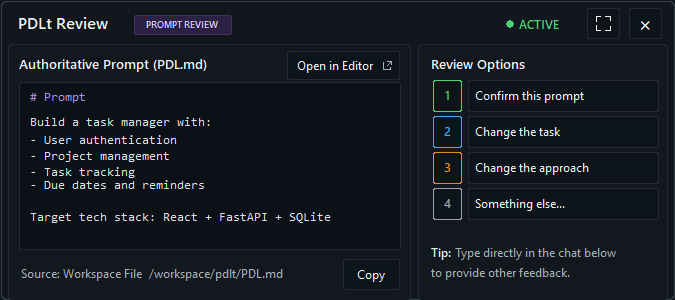
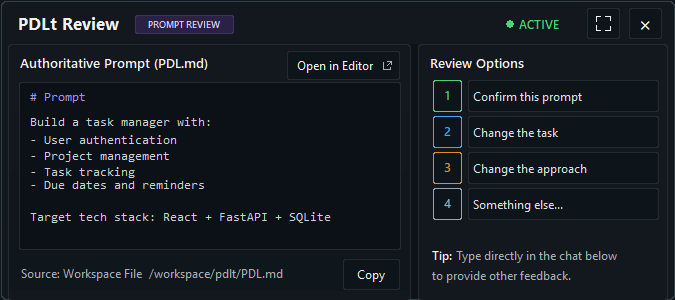
Align remaining H2-C reference metrics

diff --git a/r6o/views/sidecar/app.py b/r6o/views/sidecar/app.py
@@ -121,6 +121,8 @@ class SidecarWindow:
     BORDER = "#242a30"
     BORDER_SOFT = "#242a30"
     TEXT = "#eef2f5"
+    ACTION_TEXT = "#dde1e4"
+    ARTIFACT_TEXT = "#cbd1d5"
     MUTED = "#a8afb6"
     ACCENT = "#a891e9"
     ACTIVE = "#4bd477"
@@ -269,6 +271,22 @@ class SidecarWindow:
         self._hit_regions.append(_HitRegion(role, rect, command))
         self._visible_controls.add(role)
 
+    def _draw_surface_bands(self, rect: Rect, colors: tuple[str, ...]) -> None:
+        """Approximate the reference's quiet raster falloff with bounded primitives."""
+
+        band_height = max(1, rect.height // len(colors))
+        for index, color in enumerate(colors):
+            top = rect.y + index * band_height
+            bottom = rect.bottom if index == len(colors) - 1 else top + band_height
+            self.canvas.create_rectangle(
+                rect.x,
+                top,
+                rect.right,
+                bottom,
+                fill=color,
+                outline="",
+            )
+
     def _draw_expand_icon(self, rect: Rect) -> None:
         center_x = rect.x + rect.width // 2
         center_y = rect.y + rect.height // 2
@@ -329,9 +347,11 @@ class SidecarWindow:
         self._rounded_rect(
             Rect(1, 1, window_rect.width - 2, window_rect.height - 2),
             radius=12,
-            fill=self.BG,
+            fill="#10151b" if self.mode is SidecarMode.EXPANDED else "#12181e",
             outline="#34414a",
         )
+        if self.mode is SidecarMode.STANDARD:
+            self.canvas.create_rectangle(410, 44, 418, 299, fill="#0d1218", outline="")
         self._draw_header()
         self._draw_artifact()
         self._draw_options()
@@ -351,13 +371,13 @@ class SidecarWindow:
         expanded = self.mode is SidecarMode.EXPANDED
         self.canvas.create_text(
             18,
-            22,
+            23,
             text="PDLt Review",
             anchor="w",
             fill=self.TEXT,
-            font=("Segoe UI Semibold", 12),
+            font=("Segoe UI", 13, "bold"),
         )
-        badge = Rect(134, 15, 97, 19)
+        badge = Rect(132, 16, 98, 19) if expanded else Rect(135, 15, 98, 18)
         self._rounded_rect(badge, radius=4, fill="#2a2145", outline="#40325f")
         self.canvas.create_text(
             badge.x + badge.width // 2,
@@ -403,17 +423,24 @@ class SidecarWindow:
             fill="#0f161c" if expanded else self.CARD,
             outline=self.BORDER_SOFT,
         )
-        title_y = 71 if expanded else 63
+        self._draw_surface_bands(
+            Rect(panel.x + 1, panel.y + 9, panel.width - 2, panel.height - 18),
+            ("#11171d", "#10161c", "#0f151b", "#0e141a")
+            if expanded
+            else ("#12181e", "#11171d", "#10161c", "#0f161c"),
+        )
+        title_x = panel.x + (10 if expanded else 12)
+        title_y = 69 if expanded else 62
         artifact = (self.projection or {}).get("artifact") or {}
         self.canvas.create_text(
-            panel.x + 11,
+            title_x,
             title_y,
             text=str(artifact.get("title") or "Authoritative Artifact"),
             anchor="w",
             fill=self.TEXT,
             font=("Segoe UI Semibold", 10),
         )
-        open_rect = Rect(284, 52, 112, 31) if expanded else Rect(287, 51, 112, 28)
+        open_rect = Rect(284, 57, 112, 28) if expanded else Rect(287, 51, 112, 28)
         self._rounded_rect(open_rect, radius=6, fill=self.SURFACE, outline=self.BORDER)
         self.canvas.create_text(
             open_rect.x + 10,
@@ -442,14 +469,14 @@ class SidecarWindow:
                 line_positions[index],
                 text=line,
                 anchor="w",
-                fill=self.ACCENT if line.strip() == "# Prompt" else "#dce2e7",
+                fill=self.ACCENT if line.strip() == "# Prompt" else self.ARTIFACT_TEXT,
                 font=body_font,
             )
 
         if expanded:
             self.canvas.create_text(
                 27,
-                359,
+                358,
                 text=self._source_label,
                 anchor="w",
                 fill=self.MUTED,
@@ -457,7 +484,7 @@ class SidecarWindow:
             )
             self.canvas.create_text(
                 27,
-                379,
+                377,
                 text=self._source_value,
                 anchor="w",
                 fill=self.MUTED,
@@ -503,17 +530,13 @@ class SidecarWindow:
             # This is the open Sidecar surface, not a bordered or scrollable
             # options card.  The reference's lower-field sample is slightly
             # darker than the outer edge.
-            self.canvas.create_rectangle(
-                2,
-                panel.y,
-                self.layout.window.width - 2,
-                self.layout.window.height - 2,
-                fill="#0f161c",
-                outline="",
+            self._draw_surface_bands(
+                Rect(2, panel.y, self.layout.window.width - 4, panel.height - 2),
+                ("#0d141a", "#0e151b", "#0f161c", "#10171d", "#11171d"),
             )
         self.canvas.create_text(
-            18 if expanded else 431,
-            425 if expanded else 63,
+            18 if expanded else 430,
+            423 if expanded else 62,
             text="Review Options",
             anchor="w",
             fill=self.TEXT,
@@ -558,16 +581,17 @@ class SidecarWindow:
                 width=1,
             )
             self.canvas.create_text(
-                action.x + (6 if expanded else 7),
-                action.y + action.height // 2,
+                action.x + (8 if expanded else 5),
+                action.y + action.height // 2 + (0 if expanded else 1),
                 text=button.label,
                 anchor="w",
-                fill=self.TEXT if button.enabled else "#68727b",
+                fill=self.ACTION_TEXT if button.enabled else "#68727b",
                 font=("Segoe UI", 9 if not expanded else 10),
             )
             self._add_hit(button.action_id, action, button.invoke)
-        tip_y = 644 if expanded else 252
-        tip_x = 18 if expanded else 431
+        tip_y = 645 if expanded else 255
+        tip_x = 19 if expanded else 432
+        tip_font_size = 10 if expanded else 9
         self._semantic_rects["tip"] = Rect(tip_x, tip_y - 8, 378 if expanded else 226, 40)
         self.canvas.create_text(
             tip_x,
@@ -575,7 +599,7 @@ class SidecarWindow:
             text="Tip:",
             anchor="w",
             fill=self.TEXT,
-            font=("Segoe UI Semibold", 9),
+            font=("Segoe UI Semibold", tip_font_size),
         )
         self.canvas.create_text(
             tip_x + 24,
@@ -583,7 +607,7 @@ class SidecarWindow:
             text="Type directly in the chat below",
             anchor="w",
             fill=self.MUTED,
-            font=("Segoe UI", 9),
+            font=("Segoe UI", tip_font_size),
         )
         self.canvas.create_text(
             tip_x,
@@ -591,7 +615,7 @@ class SidecarWindow:
             text="to provide other feedback.",
             anchor="w",
             fill=self.MUTED,
-            font=("Segoe UI", 9),
+            font=("Segoe UI", tip_font_size),
         )
 
     def _apply_layout(self) -> SidecarLayout:

diff --git a/r6o/views/sidecar/model.py b/r6o/views/sidecar/model.py
@@ -113,8 +113,8 @@ def calculate_sidecar_layout(owner: Rect, composer: Rect, mode: SidecarMode) -> 
         if owner.width < window_width + 2 * margin or owner.height < window_height + 2 * margin:
             raise ValueError("qualification owner is too small for the EXPANDED Sidecar")
         window = Rect(owner.right - margin - window_width, owner.y + margin, window_width, window_height)
-        artifact = Rect(8, 48, 396, 350)
-        review_options = Rect(8, 408, 396, 398)
+        artifact = Rect(8, 48, 397, 350)
+        review_options = Rect(8, 408, 397, 398)
         composition = "ARTIFACT_TOP_REVIEW_OPTIONS_BELOW"
         chrome_height = 47
 

diff --git a/r6o/tests/h2/test_sidecar_component_display.py b/r6o/tests/h2/test_sidecar_component_display.py
@@ -56,8 +56,8 @@ def test_expanded_layout_uses_locked_size_and_reference_vertical_composition() -
 
     assert (layout.window.width, layout.window.height) == EXPANDED_SIZE
     assert owner.right - layout.window.right == 24
-    assert layout.artifact == Rect(8, 48, 396, 350)
-    assert layout.review_options == Rect(8, 408, 396, 398)
+    assert layout.artifact == Rect(8, 48, 397, 350)
+    assert layout.review_options == Rect(8, 408, 397, 398)
     assert layout.artifact.bottom < layout.review_options.y
     assert layout.composition == "ARTIFACT_TOP_REVIEW_OPTIONS_BELOW"
 
